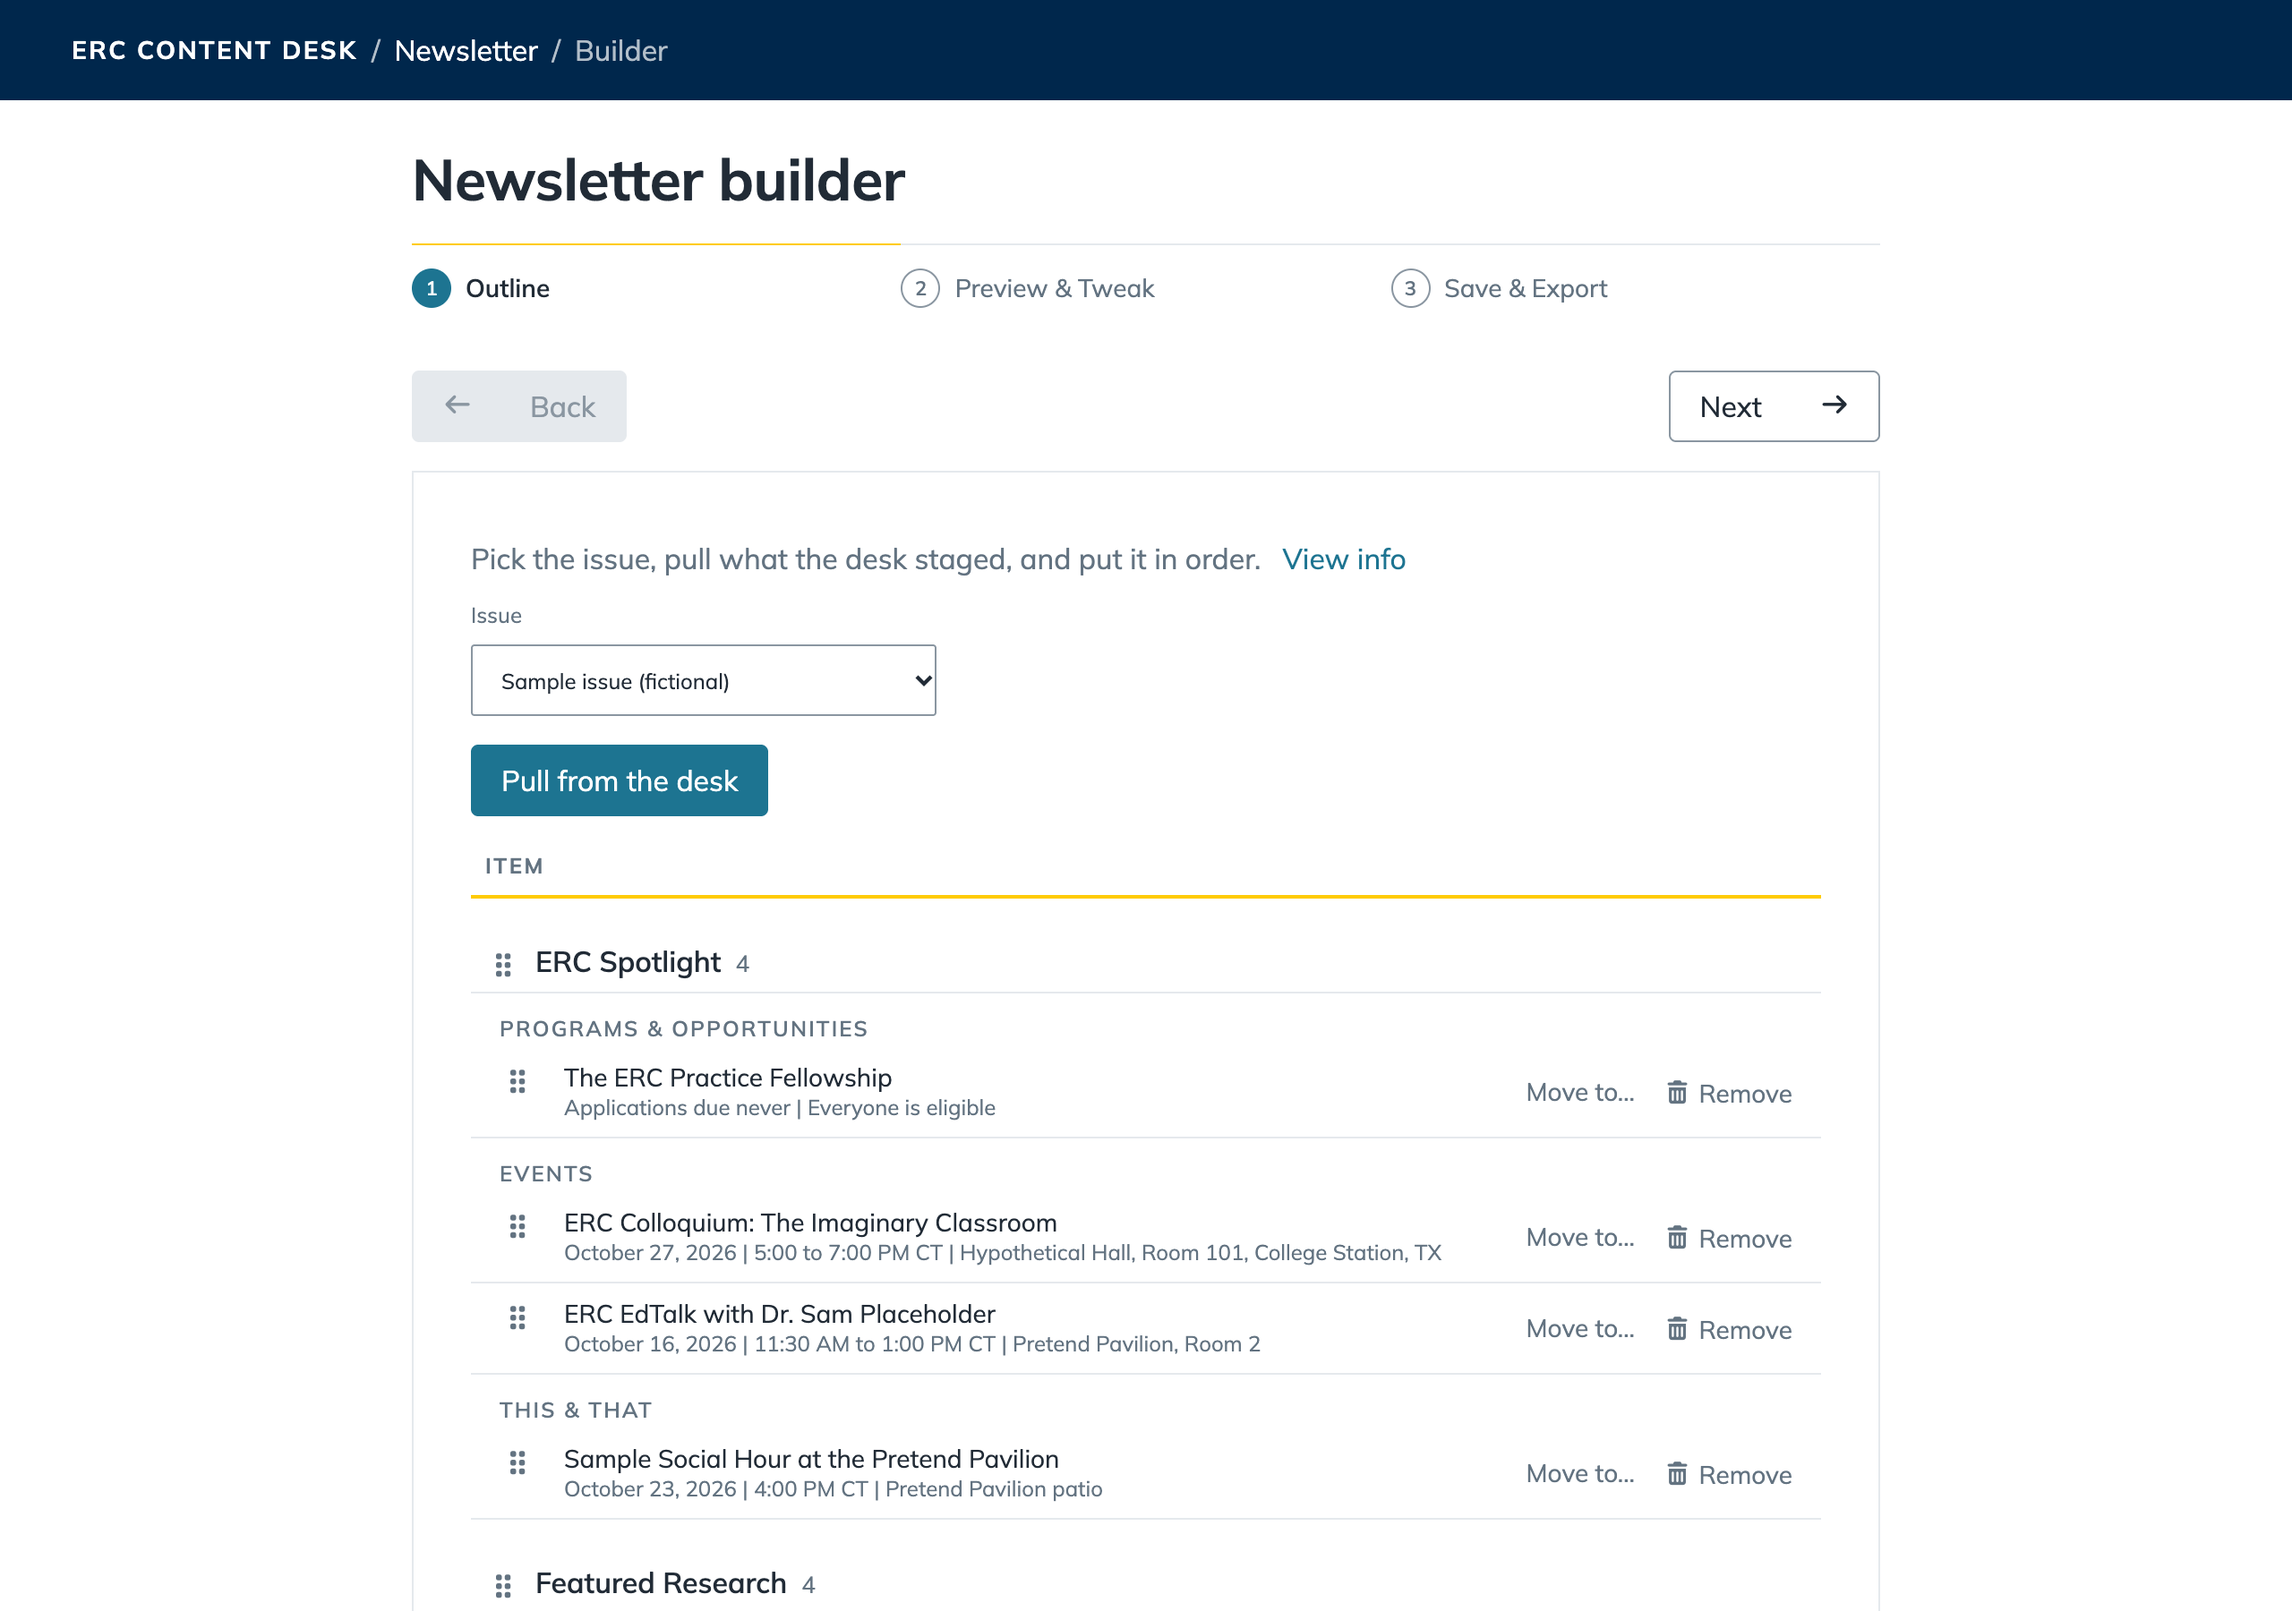
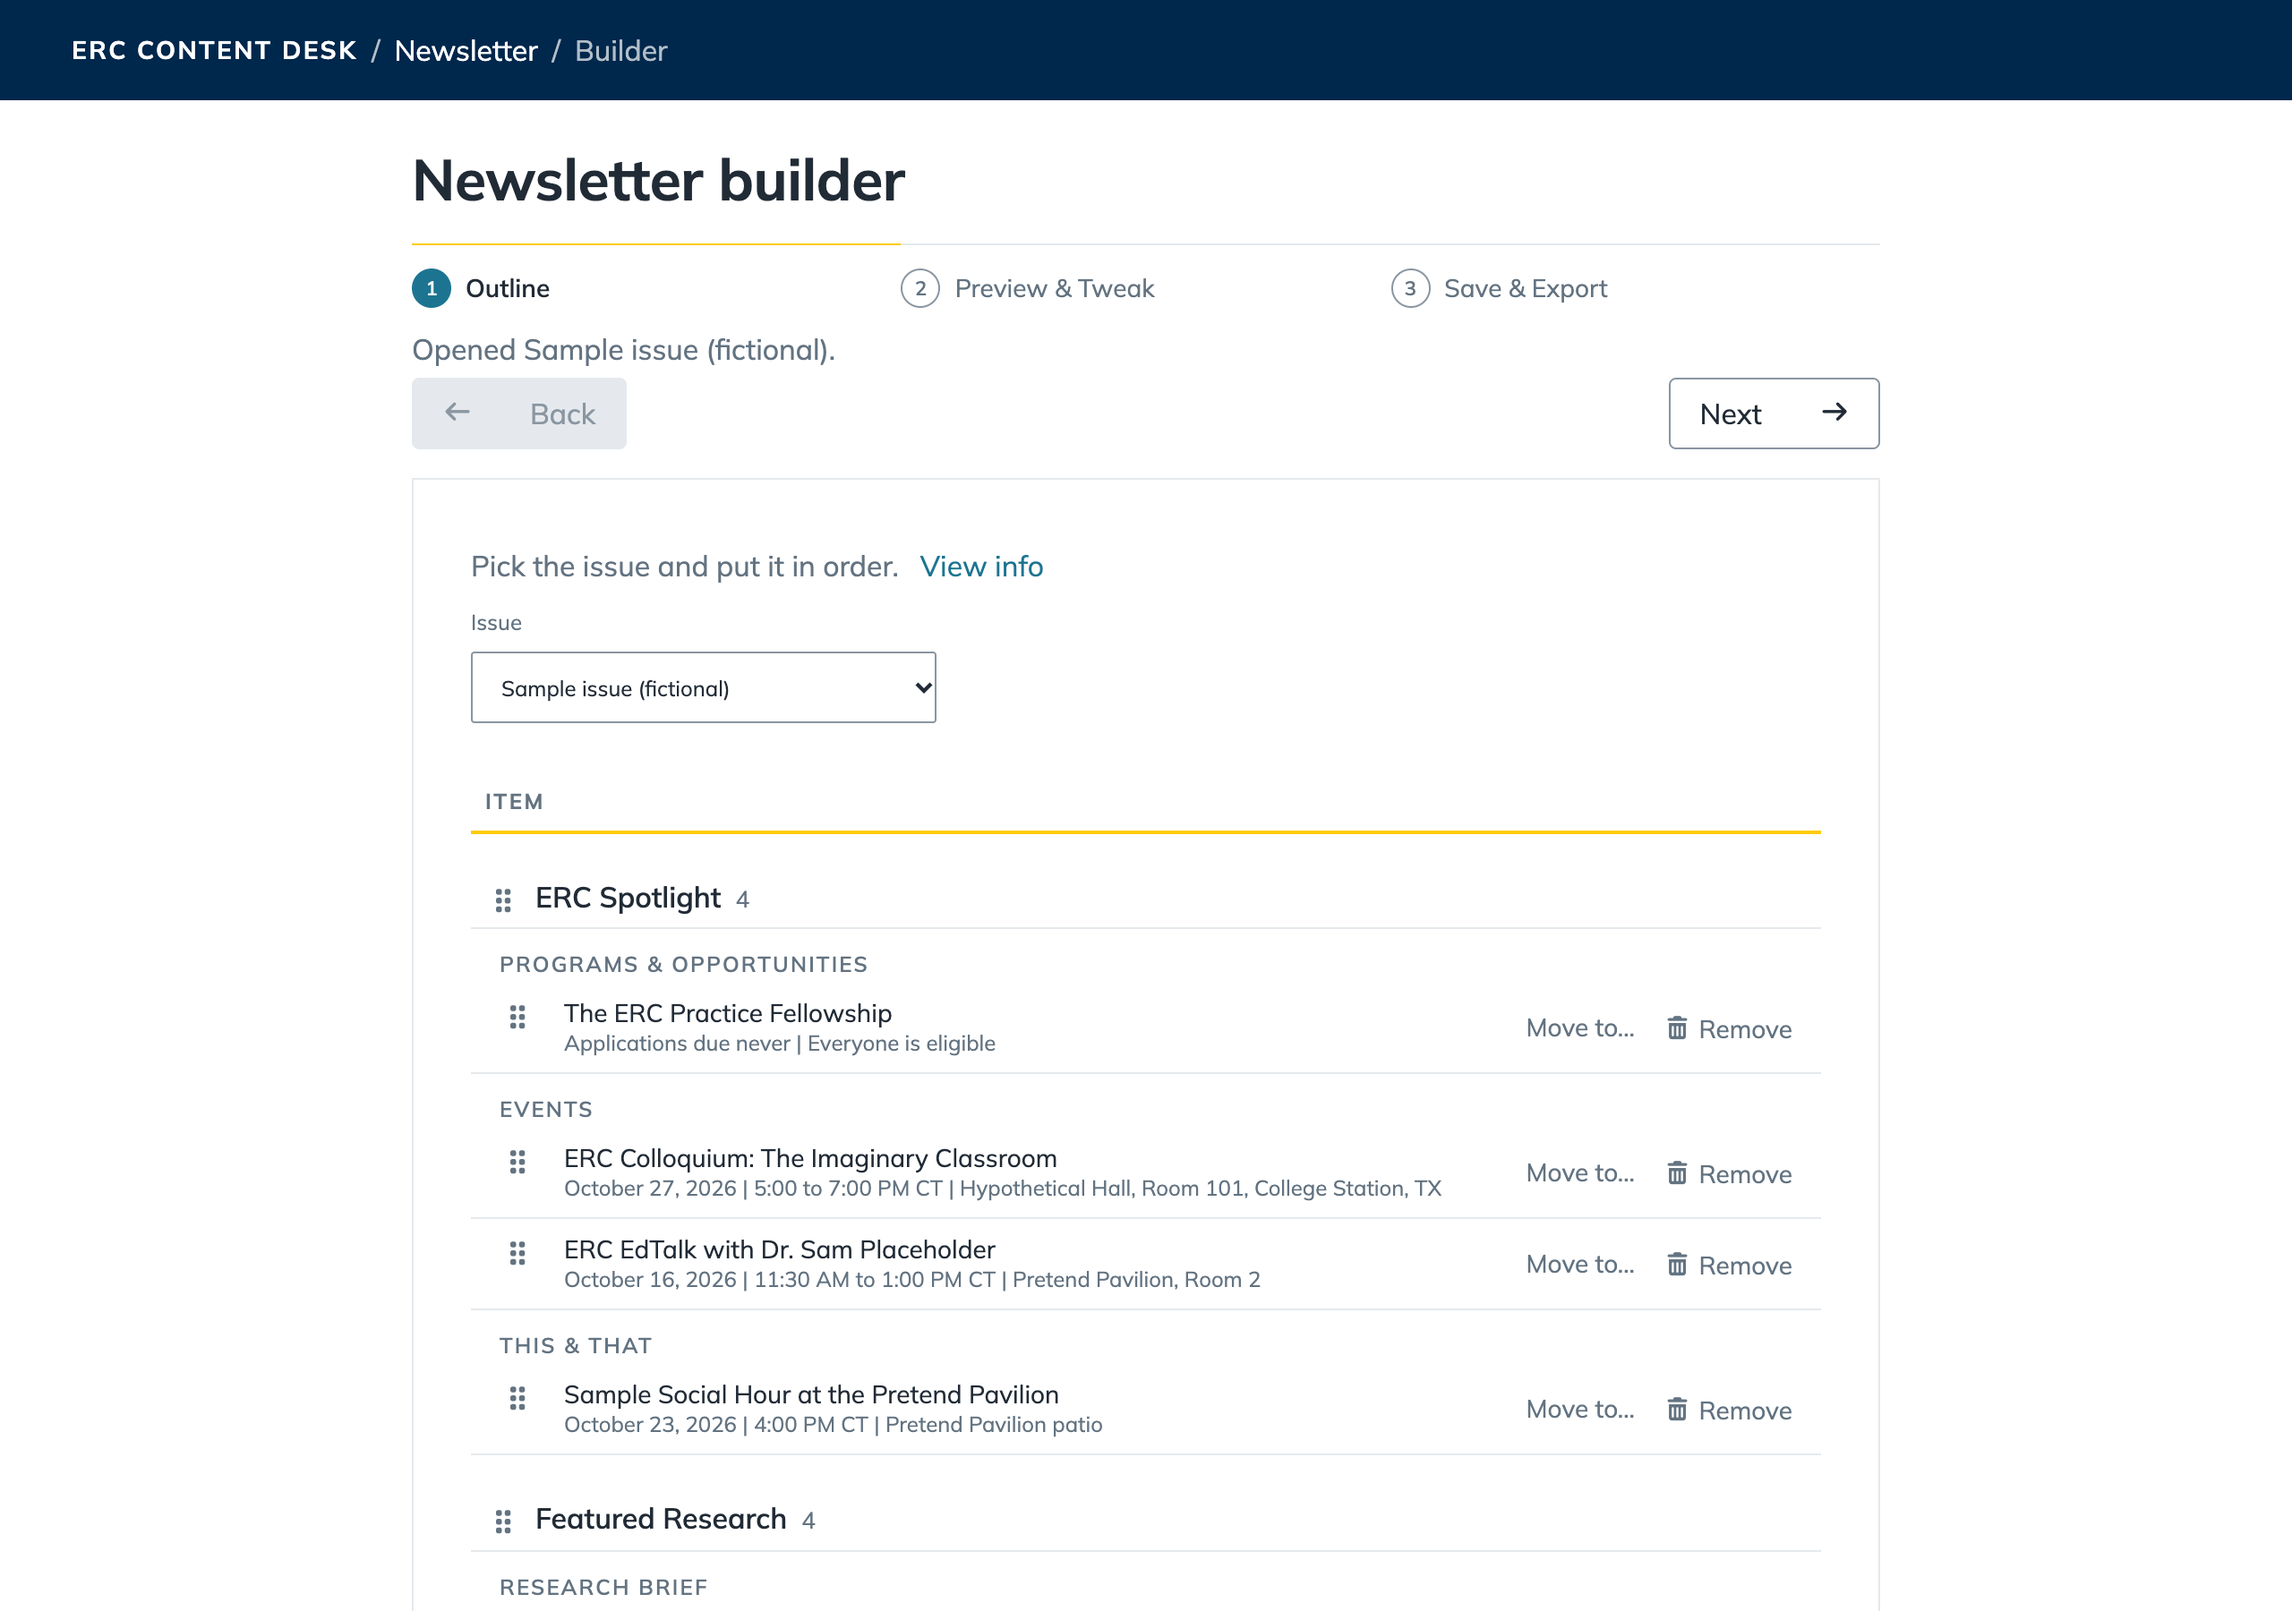
how-to: the Outline still re-shot without the Pull button; the Issue pin says picking the date brings the items in; the lede says Pick the issue (Kate, Oct 8)

diff --git a/how-to/newsletter/index.html b/how-to/newsletter/index.html
@@ -292,7 +292,7 @@
     <div>
       <div class="eyebrow">How to</div>
       <h1>Build the newsletter</h1>
-      <p class="lede">Pull in what the desk staged, put it in order, fix it on the email, and send it from erc@tamu.edu.</p>
+      <p class="lede">Pick the issue, put it in order, fix it on the email, and send it from erc@tamu.edu.</p>
     </div>
     <a class="open" href="https://erc-content-desk.vercel.app/#newsletter" target="_blank" rel="noopener">Open Newsletter<i class="fa-solid fa-arrow-up-right-from-square" aria-hidden="true"></i></a>
   </div></div>
@@ -330,9 +330,9 @@
             <div class="foot"></div>
           </div>
           <div class="frame">
-            <div class="shot" style="--iw:2560;--ih:1800;--cx:490;--cy:590;--cw:1590;--ch:710">
+            <div class="shot" style="--iw:2560;--ih:1800;--cx:490;--cy:560;--cw:1590;--ch:710">
               <div class="crop"><div class="zoom"><img src="shots/outline.png" width="2560" height="1800" loading="lazy" alt="The Outline step: the Issue list set to Sample issue (fictional), and the top of the item table." /></div></div>
-              <button type="button" class="pin" style="--x:38.09;--y:23.99" aria-label="Issue: the date. To practice, pick a sample under Samples"><span class="num" aria-hidden="true">1</span><span class="tip" aria-hidden="true">Issue: the date. To practice, pick a sample under Samples</span></button>
+              <button type="button" class="pin" style="--x:38;--y:29.3" aria-label="Issue: the date; picking it brings in what the desk holds for it. To practice, pick a sample under Samples"><span class="num" aria-hidden="true">1</span><span class="tip" aria-hidden="true">Issue: the date; picking it brings in what the desk holds for it. To practice, pick a sample under Samples</span></button>
             </div>
           </div>
         </div>
